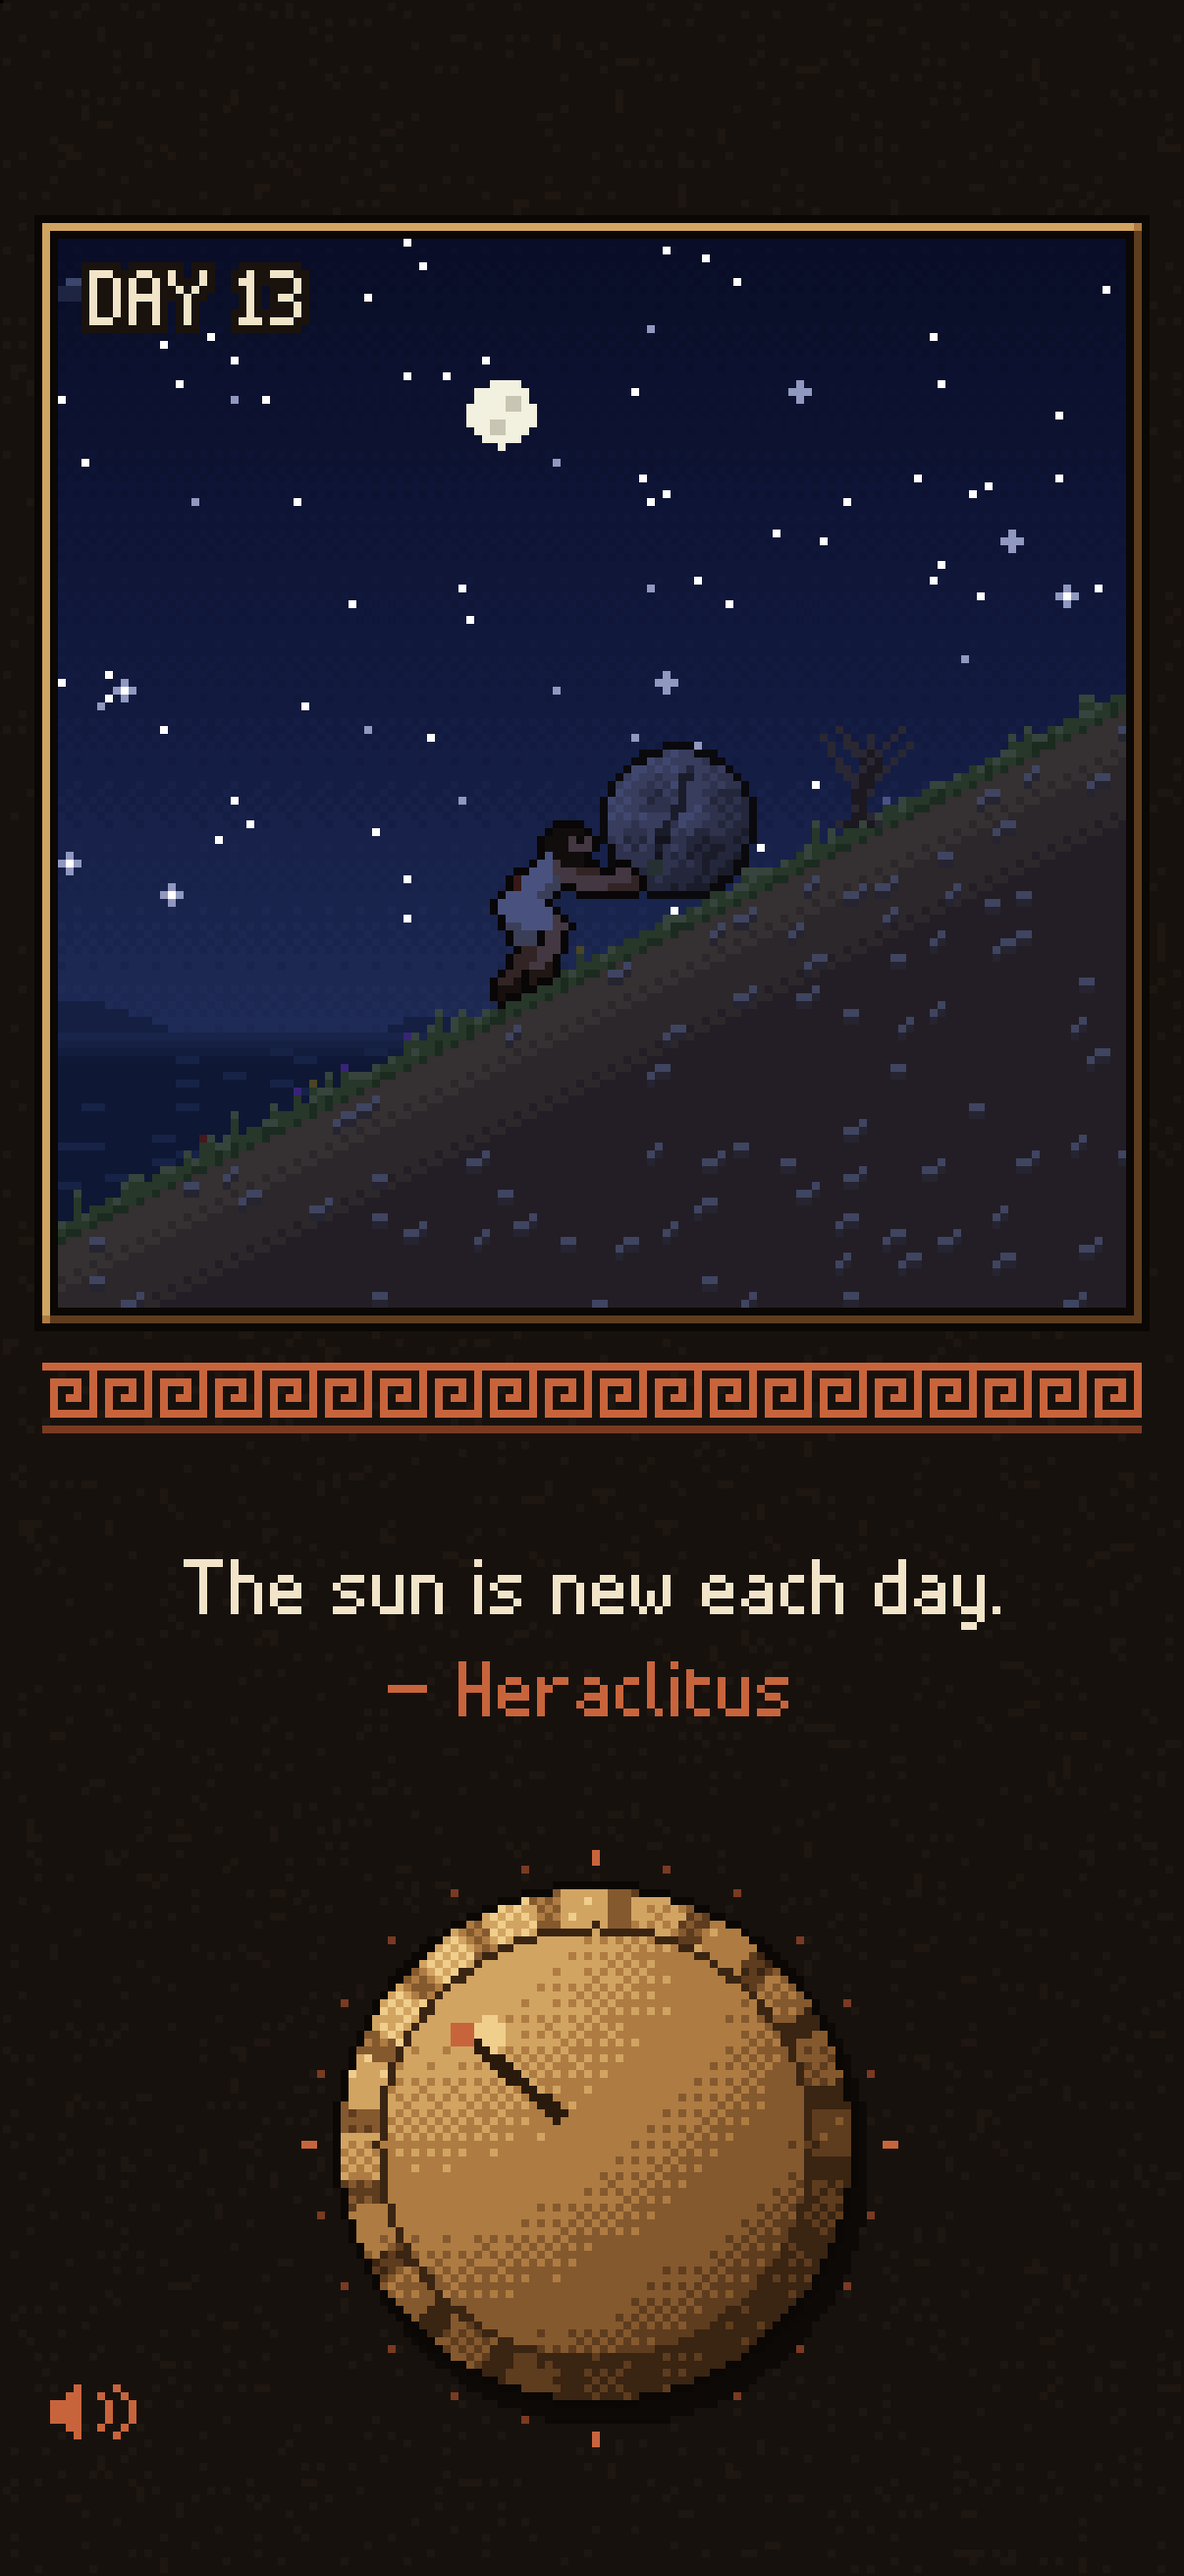
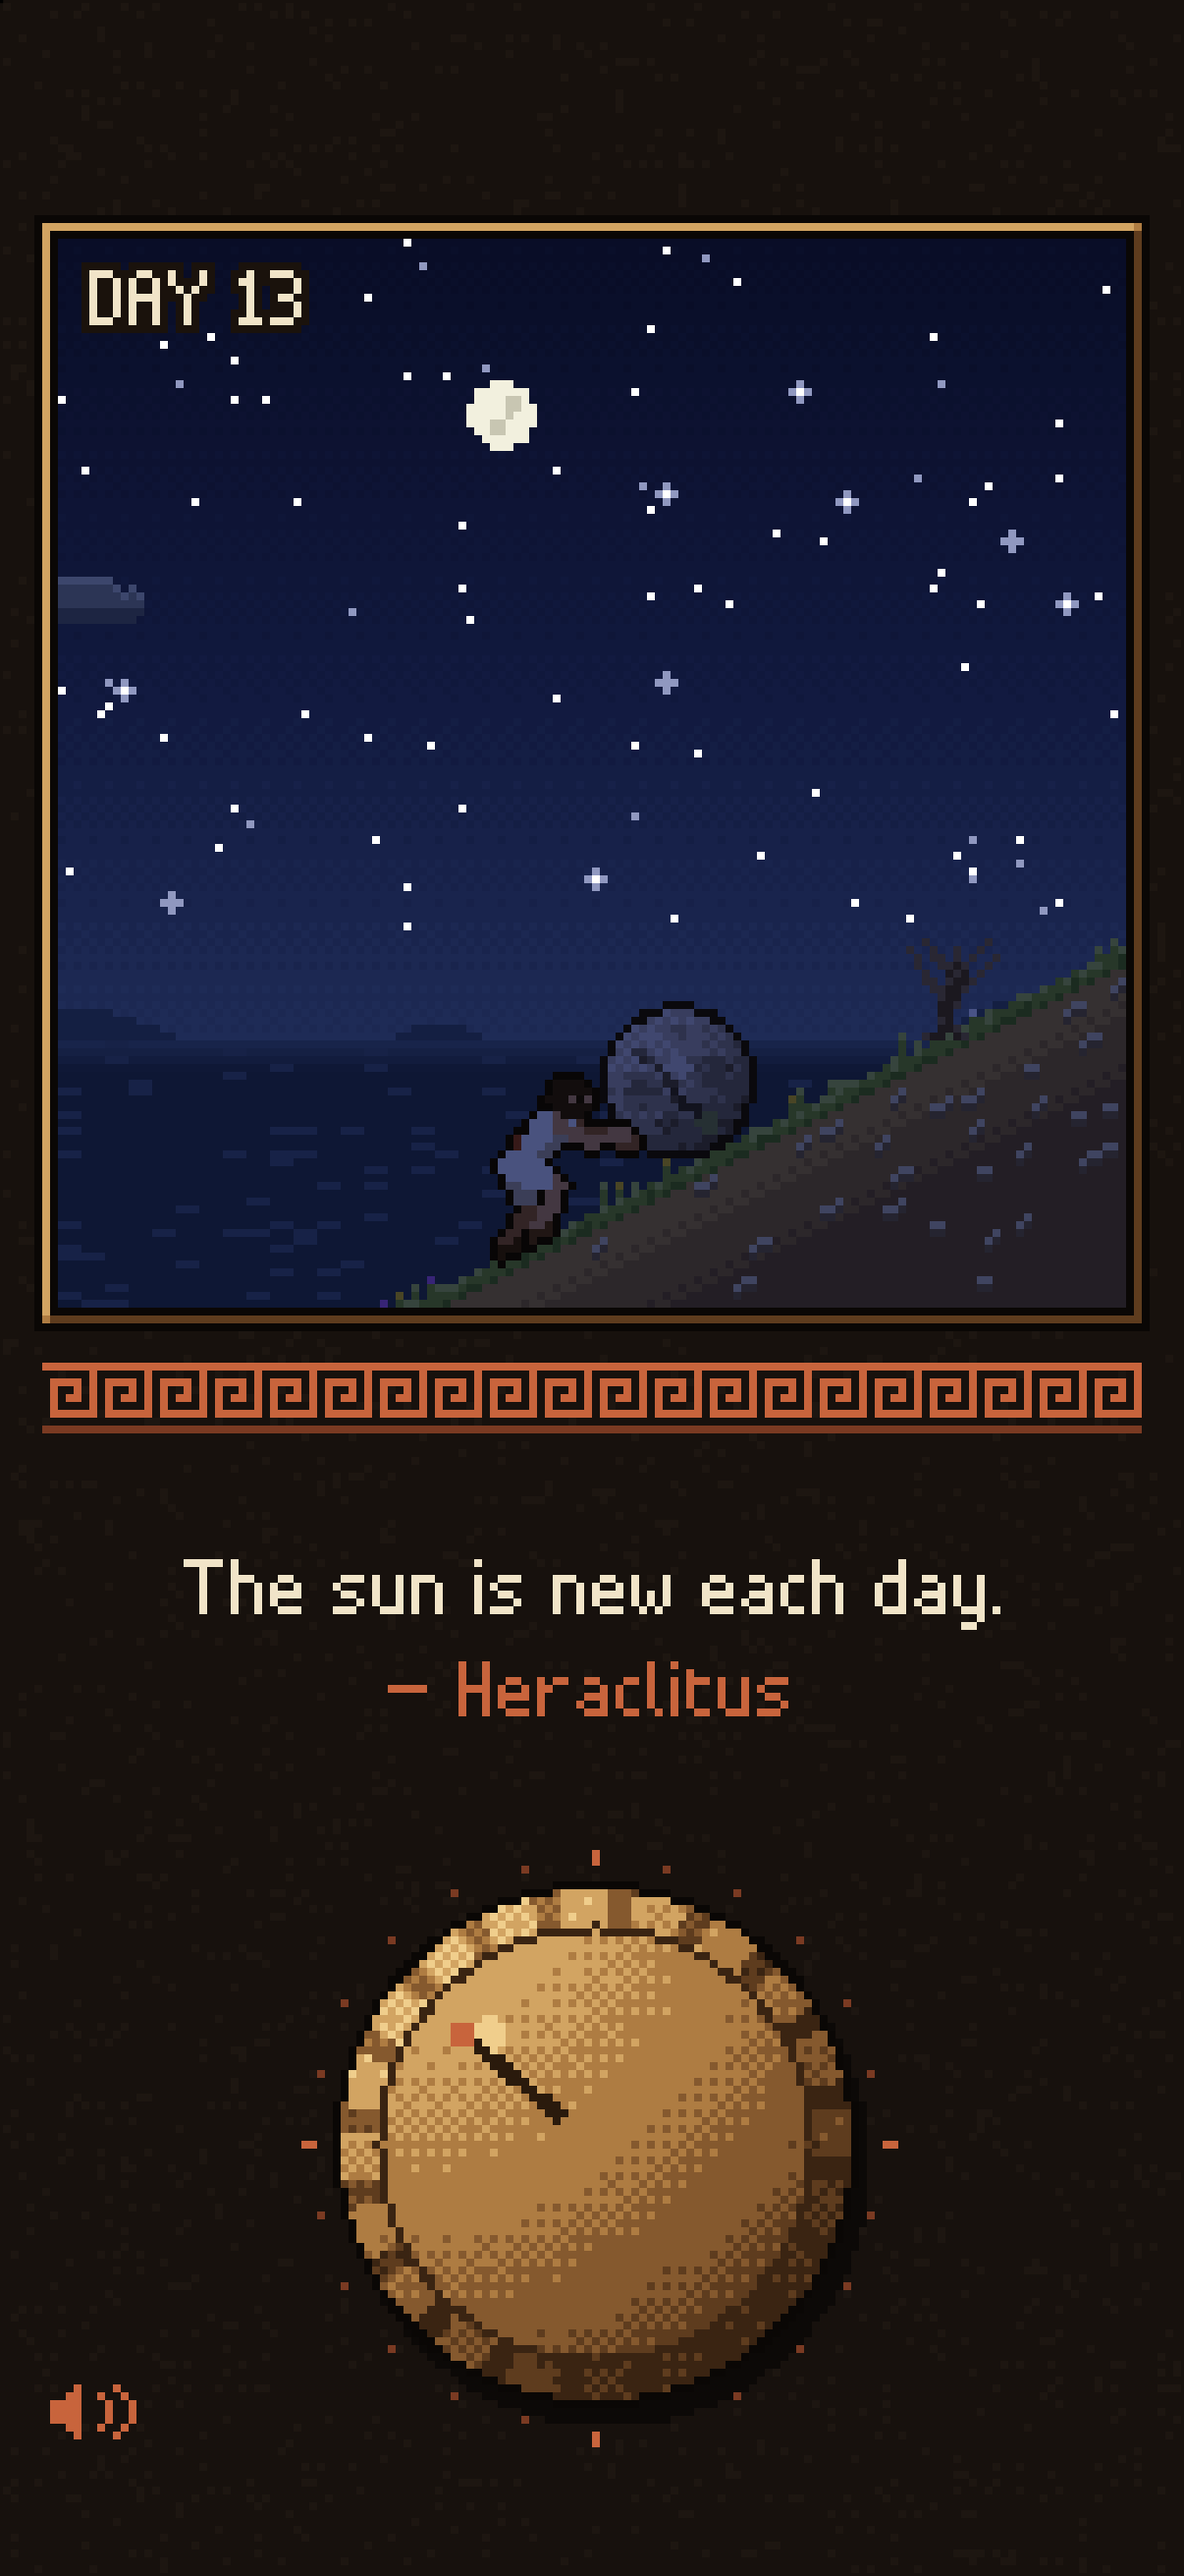
Push uphill both ways and keep the hill in the lower right third
- Turning the knob either way now moves Sisyphus up and counts as effort.
- Place the slope so it meets the bottom edge a third of the way in; add SceneGeometryTest.
- Update the snapshot test and regenerate the App Store screenshots.
- Add a justfile with a `run` recipe and mention it in the README.

diff --git a/composeApp/src/commonMain/kotlin/dev/oblac/sisyphus/game/Game.kt b/composeApp/src/commonMain/kotlin/dev/oblac/sisyphus/game/Game.kt
@@ -7,7 +7,6 @@ import kotlin.math.PI
 import kotlin.math.abs
 import kotlin.math.exp
 import kotlin.math.floor
-import kotlin.math.max
 import kotlin.random.Random
 
 /** How far Sisyphus walks, in pixels, for one full turn of the knob. */
@@ -112,8 +111,8 @@ enum class Weather(val clouds: Int, val wind: Double, val overcast: Float, val r
 }
 
 /**
- * The state of the push. The knob moves Sisyphus. Only forward pushing counts as effort,
- * and effort is what moves the sun: days pass only when he works.
+ * The state of the push. The knob moves Sisyphus up the hill, whichever way it turns.
+ * Effort is what moves the sun: days pass only when he works.
  * Everything the player can see comes back from [store] when the game starts again.
  */
 class Game(private val store: Store = MemoryStore(), seed: Int = Random.nextInt()) {
@@ -124,7 +123,7 @@ class Game(private val store: Store = MemoryStore(), seed: Int = Random.nextInt(
     var effort = store.load(KEY_EFFORT) ?: 0.0
         private set
 
-    /** Pixels walked during the last update. Negative when walking back down. */
+    /** Pixels walked up during the last update. */
     var moved = 0.0
         private set
     /** Smoothed walking speed, in pixels per second. */
@@ -155,15 +154,15 @@ class Game(private val store: Store = MemoryStore(), seed: Int = Random.nextInt(
     fun update(dt: Double) {
         clock += dt
         val turn = knob.update(dt)
-        moved = turn / (2 * PI) * PX_PER_TURN
+        moved = abs(turn) / (2 * PI) * PX_PER_TURN
         position += moved
-        if (moved > 0) effort += moved
+        effort += moved
         if (moved != 0.0) dirty = true
         if (dt > 0) speed += (moved / dt - speed) * (1 - exp(-dt * 8))
-        stillFor = if (abs(moved) > 1e-4) 0.0 else stillFor + dt
+        stillFor = if (moved > 1e-4) 0.0 else stillFor + dt
         tick(dt)
         val drawn = quotes.drawn
-        quotes.update(dt, max(0.0, moved), stillFor)
+        quotes.update(dt, moved, stillFor)
         if (quotes.drawn != drawn) dirty = true
         sinceSave += dt
         if (dirty && sinceSave > SAVE_EVERY) save()

diff --git a/composeApp/src/commonMain/kotlin/dev/oblac/sisyphus/scene/SceneGeometry.kt b/composeApp/src/commonMain/kotlin/dev/oblac/sisyphus/scene/SceneGeometry.kt
@@ -10,8 +10,9 @@ import kotlin.math.sqrt
 class SceneGeometry(val width: Int, val height: Int) {
     /** Sisyphus stands on the slope here: the top of ground pixel ([heroX], [baseY]). */
     val heroX = width / 2 - 8
-    val baseY = (height * 0.70).roundToInt()
-    val horizon = baseY + 6
+    /** The slope meets the bottom edge a third of the way in, so the hill stays in the lower right third. */
+    val baseY = height - 1 - (heroX - width / 3) / 2
+    val horizon = (height * 0.75).roundToInt()
 
     val rockR = 10.0
     /** Rock center relative to the hero, so that the rock rests on the slope. */

diff --git a/composeApp/src/commonTest/kotlin/dev/oblac/sisyphus/SceneGeometryTest.kt b/composeApp/src/commonTest/kotlin/dev/oblac/sisyphus/SceneGeometryTest.kt
@@ -1,0 +1,17 @@
+package dev.oblac.sisyphus
+
+import dev.oblac.sisyphus.scene.SceneGeometry
+import kotlin.test.Test
+import kotlin.test.assertEquals
+
+class SceneGeometryTest {
+    @Test
+    fun theHillStaysInTheLowerRightThird() {
+        val geo = SceneGeometry(133, 133)
+        for (p in listOf(0, 1, 7, 1000)) {
+            val foot = (0 until geo.width).first { geo.surfaceY(it, p) < geo.height }
+            assertEquals(geo.width / 3.0, foot.toDouble(), 2.0)
+            assertEquals(geo.height * 2 / 3.0, geo.surfaceY(geo.width - 1, p).toDouble(), 2.0)
+        }
+    }
+}

diff --git a/composeApp/src/jvmTest/kotlin/dev/oblac/sisyphus/SnapshotTest.kt b/composeApp/src/jvmTest/kotlin/dev/oblac/sisyphus/SnapshotTest.kt
@@ -154,7 +154,7 @@ class SnapshotTest {
             val l = s.layout!!
             val px = s.render()
             val x0 = l.scene.x + l.scene.w / 2 - 30
-            val y0 = l.scene.y + (l.scene.h * 0.70).toInt() - 36
+            val y0 = l.scene.y + SceneGeometry(l.scene.w, l.scene.h).baseY - 36
             Pixels(52, 44).also { crop ->
                 for (y in 0 until crop.height) for (x in 0 until crop.width) crop[x, y] = px[x0 + x, y0 + y]
             }

diff --git a/composeApp/src/commonTest/kotlin/dev/oblac/sisyphus/GameTest.kt b/composeApp/src/commonTest/kotlin/dev/oblac/sisyphus/GameTest.kt
@@ -82,11 +82,11 @@ class GameTest {
     }
 
     @Test
-    fun walkingBackDoesNotMoveTheSun() {
+    fun turningBackAlsoPushesUp() {
         val game = Game(seed = 1)
         game.turn(-2 * PI)
-        assertTrue(game.position < -PX_PER_TURN + 0.5)
-        assertEquals(0.0, game.effort)
+        assertEquals(PX_PER_TURN, game.position, 0.3)
+        assertEquals(game.position, game.effort, 1e-9)
     }
 
     @Test

diff --git a/README.md b/README.md
@@ -11,7 +11,7 @@ Website, support and privacy policy: https://igr.github.io/sisyphus/ (from the `
 
 - iOS: open `iosApp/iosApp.xcodeproj`, select the **Sisyphus** scheme and an iPhone simulator, then Run.
   For a real iPhone, set your signing team in the target settings.
-- Desktop window, for quick checks: `./gradlew :composeApp:run`
+- Desktop window on a Mac, for quick checks: `just run` (or `./gradlew :composeApp:run`)
 - Tests: `./gradlew :composeApp:jvmTest`. The tests also write PNG snapshots and `clicks.wav`
   to `composeApp/build/snapshots`.
 
